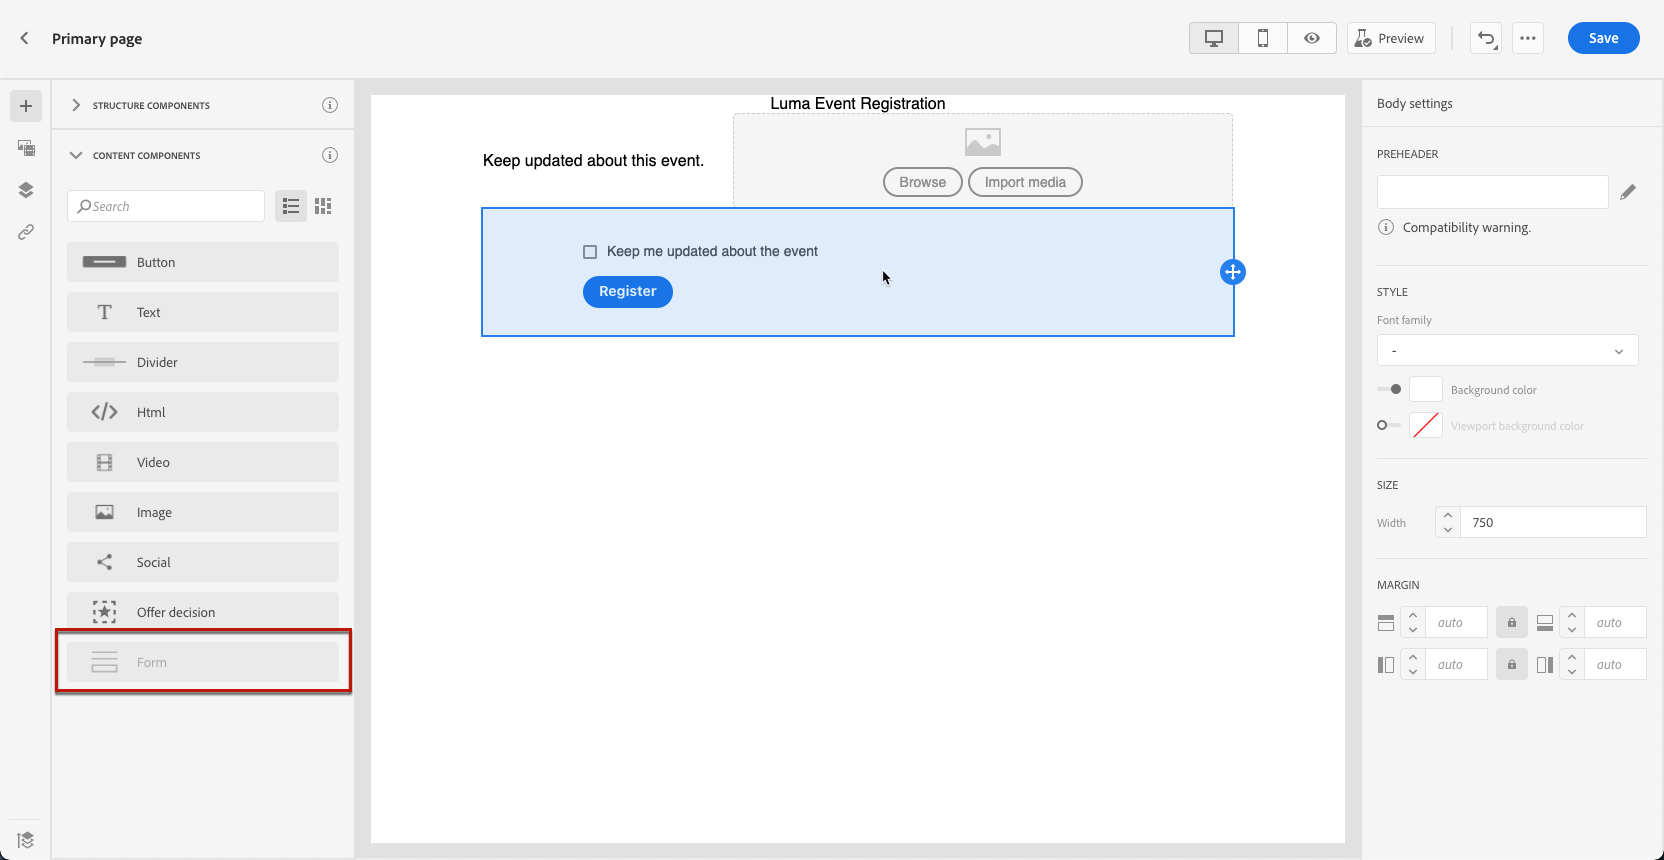
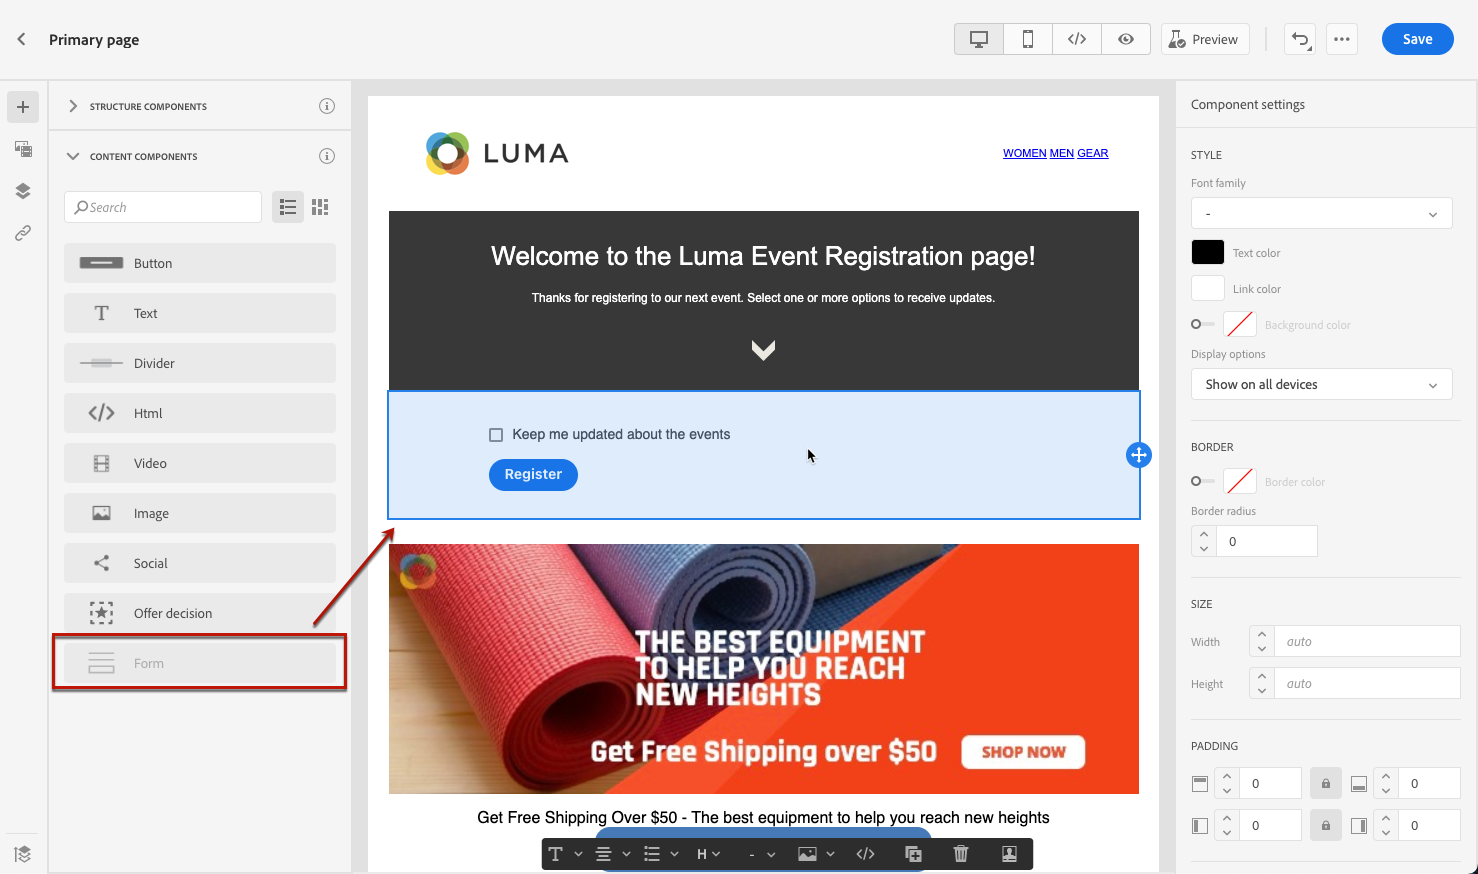
LP more updates + screens (draft)

diff --git a/help/using/landing-pages/create-lp.md b/help/using/landing-pages/create-lp.md
@@ -1,6 +1,6 @@
 ---
-title: Create an email
-description: Learn how to create an email in Journey Optimizer
+title: Create a landing page
+description: Learn how to create a landing page in Journey Optimizer
 feature: Overview
 topic: Content Management
 role: User
@@ -10,6 +10,10 @@ exl-id: c77dc420-a375-4376-ad86-ac740e214c3c
 # Create a landing page {#create-lp}
 
 To access the landing page list, select **[!UICONTROL Journey Management]** > **[!UICONTROL Landing pages]** from the left menu.
+
+>[!CAUTION]
+>
+>The use of landing pages is currently available in early access to select users only. If you want to leverage this feature, contact your Adobe account executive.
 
 ![](../assets/lp_access-list.png)
 
@@ -39,7 +43,7 @@ The steps to create a landing page are as follows.
 
 1. You can change the page name, which is **[!UICONTROL Primary page]** by default.
 
-1. Edit the content of your page using the content designer. Hover the mouse over the primary page and click **[!UICONTROL Open Designer]**, or click the corresponding button from the right palette. Learn how to design landing page content [here]((#design-lp-content)
+1. Edit the content of your page using the content designer. Hover the mouse over the primary page and click **[!UICONTROL Open Designer]**, or click the corresponding button from the right palette. Learn how to design landing page content [here](#design-lp-content)
 
     ![](../assets/lp_open-designer.png)
 
@@ -67,20 +71,69 @@ The steps to create a landing page are as follows.
 
 ## Design the landing page content {#design-lp-content}
 
-1. Click **[!UICONTROL Open Designer]**. The Content Designer opens and enables you to design content. [Learn more](../design-emails.md) on designing content with the [!DNL Journey Optimizer] Content Designer. You can:
+1. Click **[!UICONTROL Open Designer]** to start creating content for your landing page. [Learn more](../design-emails.md) on designing content with [!DNL Journey Optimizer]. You can:
 
     * **Design your landing page from scratch** through the content designer's interface and leverage images from [Adobe Experience Manager Assets Essentials](assets-essentials.md). Learn how to design your content or use built-in templates [in this section](../create-email-content.md).
 
-    * **Code or paste raw HTML** directly in the content designer. Learn how to code your own content [in this section](../existing-content.md#import-raw-html-code).
+    * **Code or paste raw HTML** directly into the content designer. Learn how to code your own content [in this section](../existing-content.md#import-raw-html-code).
 
     * **Import existing HTML content** from a file or a .zip folder. Learn how to import content [in this section](../existing-content.md#import-html-content-from-file).
 
-1. Use the landing page-specific **[!UICONTROL Form]** component from the left palette to add checkboxes.
+1. Drag and drop the landing page-specific **[!UICONTROL Form]** component from the left palette into the main workspace.
 
     ![](../assets/lp_designer-form-component.png)
+
+1. Select it. The **[!UICONTROL Form content]** tab displays in the right palette to let you to edit the different fields of the form.
+
+    ![](../assets/lp_designer-form-content-options.png)
+
+1. From the **[!UICONTROL Checkbox 1]** section, you can edit the label corresponding to this checkbox.
+
+1. Define if this checkbox is to opt users in or out. This means that if they check the box, do they agree to receive communications or do they ask not to be contacted any more?
+
+    ![](../assets/lp_designer-form-update.png)
+
+1. Choose what will be updated between the three following options:
+
+    ![](../assets/lp_designer-form-update-options.png)
+
+    * **[!UICONTROL Subscription list]**: You must select the subscription list that will be updated if the profile selects the checkbox.
+
+        ![](../assets/lp_designer-form-subs-list.png)
+
+    * **[!UICONTROL Channel (email)]**: applies to the whole channel. For example, if a profile that opts out has two email addresses, both addresses will be excluded from your communications.
+
+    * **[!UICONTROL Email entity]**: only applies to the email address that was used to access the landing page. For example, if a profile has two email addresses, only the one that was used to opted in will receive communications from your brand.
+
+1. Click **[!UICONTROL Add field]** > **[!UICONTROL Checkbox]** to add another checkbox. Repeat the steps above to define its properties.
+
+    ![](../assets/lp_designer-form-checkbox-2.png)
+
+1. Click **[!UICONTROL Call to action]** to expand the corresponding section. It enables you to define the behavior of the button of the **[!UICONTROL Form]** component.
+
+    ![](../assets/lp_designer-form-call-to-action.png)
+
+1. Define what will happen upon clicking the button:
+
+    * **[!UICONTROL Redirect URL]**: Enter the URL of the page the users will be redirected to.
+    * **[!UICONTROL Confirmation text]**: Type the confirmation text that will be displayed.
+    * **[!UICONTROL Link to a subpage]**: Configure a subpage and select it from the drop-down list that displays. Learn more [here](#configure-subpages)
+
+    ![](../assets/lp_designer-form-confirmation-action.png)
+
+1. Define what will happen upon clicking the button in case an error occurs:
+
+    * **[!UICONTROL Redirect URL]**: Enter the URL of the page the users will be redirected to.
+    * **[!UICONTROL Error text]**: Type the error text that will be displayed. You can preview the error text by selection the corresponding checkbox.
+
+        ![](../assets/lp_designer-form-error-preview.png)
+
+    * **[!UICONTROL Link to a subpage]**: Configure a subpage and select it from the drop-down list that displays. Learn more [here](#configure-subpages)
+
+1. If you want to make additionnal updates upon submitting the form, select **[!UICONTROL Opt in]** or **[!UICONTROL Opt out]**, and define if you want to update a subscription list, the channel or just the email address used.
 
 ***
 
 **Questions**
 
-* Will the name Email Designer be kept if you can also design LP with the same tool?
+* Will the name Email Designer be kept if you can also design LP with the same tool? > Modify 

diff --git a/help/using/landing-pages/subscription-list.md b/help/using/landing-pages/subscription-list.md
@@ -15,11 +15,13 @@ Subscription service refers to marketing goods and services provided to customer
 
 ## Create a subscription list {#create-subscription-list}
 
-1. Click **[!UICONTROL Create subscription]** list.
+To access the list of subscription lists, select **[!UICONTROL Customer]** > **[!UICONTROL Subscription list]**.
+
+1. From the subscription list, click **[!UICONTROL Create subscription]** list.
 
 1. Add a name and a description.
 
-1. You can define a start date and end date if needed.
+1. You can define a start date and end date.
 
 1. Click **[!UICONTROL Save]**.
 
@@ -27,16 +29,23 @@ The list displays all the subscription lists created. You can filter them based 
 
 The possible statuses are as follows:
 
-* **[!UICONTROL Not started]**
-* **[!UICONTROL Live]**
-* **[!UICONTROL Expired]**
+* **[!UICONTROL Not started]**: You defined a start date that is later than the current day. The profiles subscribed to this list will not receive yet communications relating to this subscription list.
+* **[!UICONTROL Live]**: The subscription list has a start date and end date that includes the current day, or you did not defined end/start dates, which means the subscription list is always live.
+* **[!UICONTROL Expired]**: The end date is passed, the subscription list is not valid anymore. Any profile subscribed to this list will not receive any more communications relating to this subscription list.
+
+Once the subscription list is created, you can use them in a landing page so that the profiles can susbcribe to it through a form. Learn more [here](create-lp.md#design-lp-content)
+
 
 ***
 
 **Questions**
 
-* Can't see the newly created subscription list in UI > bug?
+* Can't see the newly created subscription list in UI because their name included spacing > bug - to follow up (should be fixed for Dec. release)
 
 * How do you handle the different statuses? Live, Not started, Expired? Is it only through start/end dates?
 
-* What happens if you don't define start/end dates? It's always live?
+* What does it mean when a subscription list is expired or not started? You can't use it in a LP? And if a user is subscribed to this service, then he won't receive communications any more?
+
+* What else can you currently do with subscription lists apart from attach them to a landing page?
+
+* Can you update the subscription list in a way other than through a LP? Not in UI but with APIs > to follow up with Fred

diff --git a/help/using/landing-pages/get-started-lp.md b/help/using/landing-pages/get-started-lp.md
@@ -9,6 +9,10 @@ exl-id: 712dc172-6c0d-4ce8-ba16-de99d65fc641
 ---
 # Get started with landing pages {#get-sarted-lp}
 
+>[!CAUTION]
+>
+>The use of landing pages is currently available in early access to select users only. If you want to leverage this feature, contact your Adobe account executive.
+
 Landing pages are online forms that are used by marketers to capture information on audiences, offer subscriptions to a service, display data and grow your database. These can also be used for acquiring or updating existing profiles.
 
 **What is a landing page?**
@@ -30,11 +34,11 @@ Use [!DNL Journey Optimizer] to:
 
 <table>
 <tr>
-<td><img src="assets/do-not-localize/icon_design.svg" width="60px"><p><a href="create-lp.md">About landing pages</a></p></td>
-<td><img src="assets/do-not-localize/icon_assets.svg" width="60px"><p><a href="create-lp.md">Create landing pages</a></p></td>
-<td><img src="assets/do-not-localize/icon_personalization.svg" width="60px"><p><a href="create-lp.md">Create subscription</a></p></td>
-<td><img src="assets/do-not-localize/icon_messages.svg" width="60px"><p><a href="create-lp.md">Opt-in and opt-out</a></p></td>
-<td><img src="assets/do-not-localize/icon_design.svg" width="60px"><p><a href="consent.md">Manage opt-out</a></p></td>
+<td><img src="../assets/do-not-localize/icon_design.svg" width="60px"><p><a href="create-lp.md">About landing pages</a></p></td>
+<td><img src="../assets/do-not-localize/icon_assets.svg" width="60px"><p><a href="create-lp.md">Create landing pages</a></p></td>
+<td><img src="../assets/do-not-localize/icon_personalization.svg" width="60px"><p><a href="create-lp.md">Create subscription</a></p></td>
+<td><img src="../assets/do-not-localize/icon_messages.svg" width="60px"><p><a href="create-lp.md">Opt-in and opt-out</a></p></td>
+<td><img src="../assets/do-not-localize/icon_design.svg" width="60px"><p><a href="consent.md">Manage opt-out</a></p></td>
 </tr>
 </table>
 
